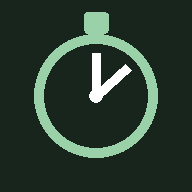
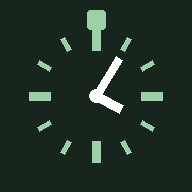
Add files via upload

Changed region(s): [[0.125, 0.0312, 0.875, 0.875]]

diff --git a/index.html b/index.html
@@ -7,11 +7,11 @@
 <meta name="mobile-web-app-capable" content="yes">
 <meta name="apple-mobile-web-app-capable" content="yes">
 <meta name="apple-mobile-web-app-status-bar-style" content="black-translucent">
-<meta name="apple-mobile-web-app-title" content="作業時間">
+<meta name="apple-mobile-web-app-title" content="KIZAMI">
 <link rel="manifest" href="./manifest.json">
 <link rel="icon" href="./icon-192.png">
 <link rel="apple-touch-icon" href="./icon-192.png">
-<title>作業時間記録</title>
+<title>KIZAMI 作業時間記録</title>
 <style>
   :root{
     --paper:#ECEFE9; --panel:#FFFFFF; --ink:#17251C; --ink-soft:#5A675E;
@@ -239,6 +239,12 @@
     <h2>データ</h2>
     <button class="wide" id="btnClear">すべての記録を消去</button>
     <p class="note">要素作業の登録と作業種別セットは残る。消去前にCSVを保存しておくこと。</p>
+
+    <p class="note" style="margin-top:22px;padding-top:12px;border-top:1px solid var(--line);text-align:center;line-height:1.7;">
+      <b style="font-size:19px;letter-spacing:.14em;color:var(--forest);">KIZAMI</b><br>
+      森林作業の要素作業時間記録<br>
+      <span id="verLine"></span>
+    </p>
   </div>
 </div>
 <div class="toast" id="toast"></div>
@@ -978,6 +984,8 @@ if(!canStore){ $("wakeNote").textContent += " ／ この環境ではデータを
 $("vibNote").textContent = navigator.vibrate
   ? "マナーモードが「ミュート（サイレント）」だと振動しない。「バイブレーション」にするか解除する。音はマナーモードでも鳴る。"
   : "このブラウザは振動に対応していない。音か画面の点滅で代用する。";
+var APP_VER = "2026-09-24";
+$("verLine").textContent = "版 " + APP_VER + (location.protocol.indexOf("http") === 0 ? "" : "（端末内のファイルで実行中）");
 renderRec();
 if(state.running) requestWake();
 show("rec");
